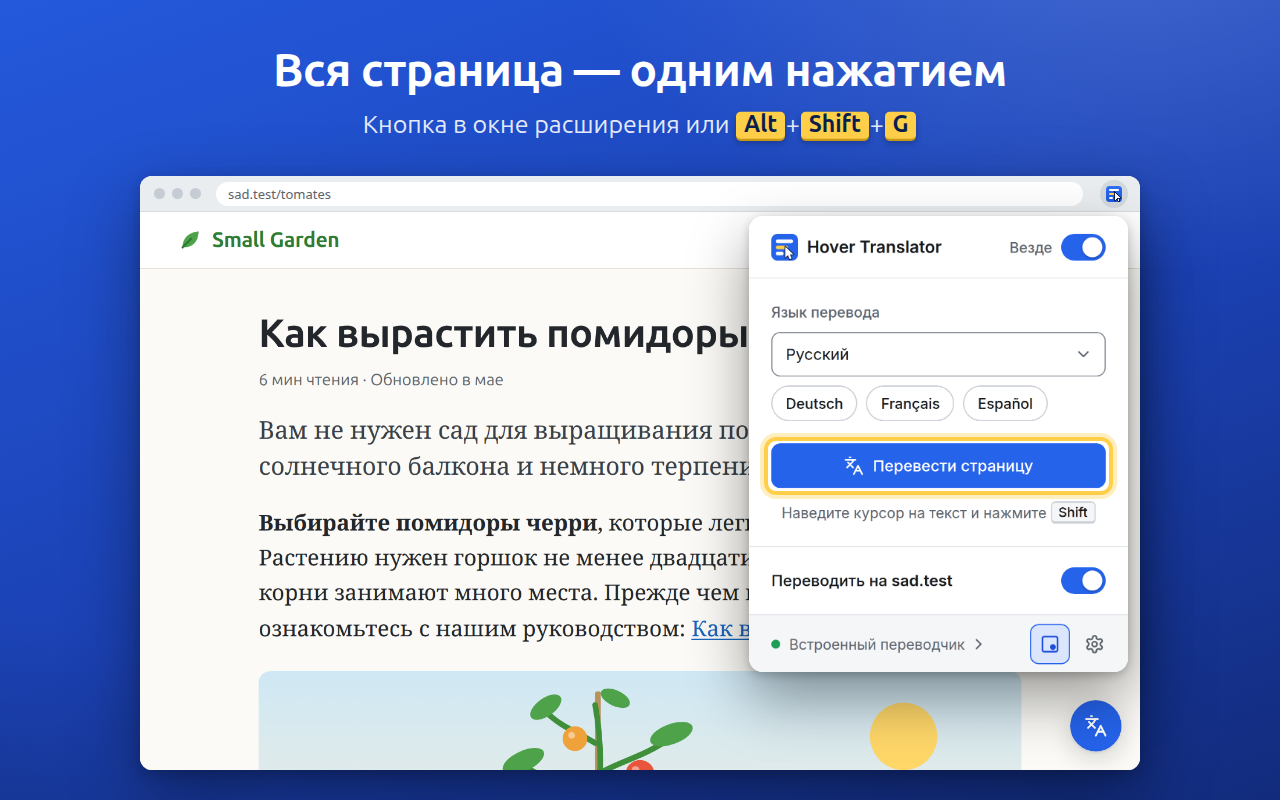
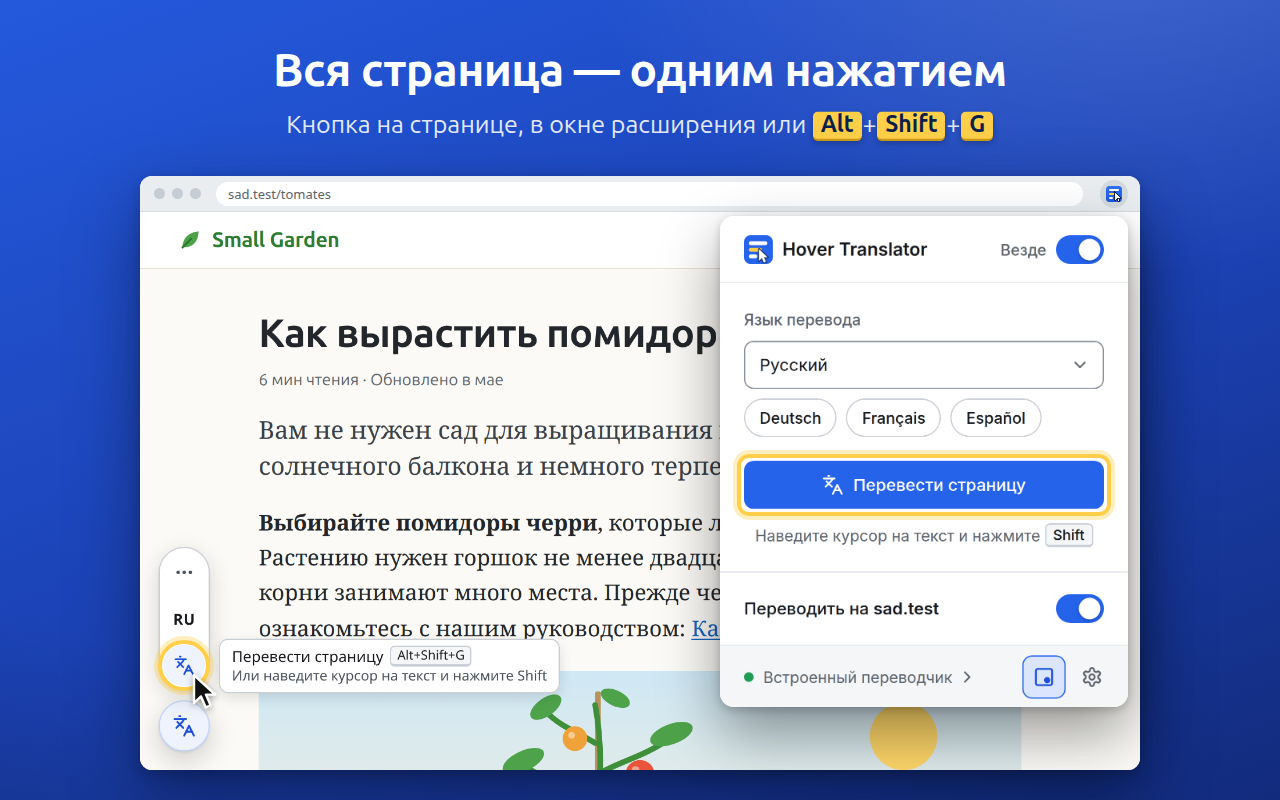
Картинки магазина: на кадре 4 — открытая капсула у кружка с «Перевести страницу»
Кружок слева внизу, капсула и подсказка главной кнопки с Alt+Shift+G — снимок интерфейса на прозрачном фоне
поверх переведённой страницы; рамка и курсор — на главной кнопке, в подписи названа и кнопка на странице.
capture.js в конце удаляет свою копию расширения из профиля, чтобы сочетание не оставалось за прежней установкой.

diff --git a/assets/store/capture.js b/assets/store/capture.js
@@ -14,8 +14,11 @@
 //   s1-before.png, s1-after.png — абзацы до и после перевода клавишей (600×540, ×2);
 //   s2-card.png                 — перевод карточкой рядом с абзацем (860×440, ×2);
 //   s3-settings.png             — страница настроек, раздел «На странице»: способ перевода и показа (×3);
-//   s4-popup.png, s4-page.png   — окно расширения с кнопкой «Перевести страницу» (×3) и переведённая
-//                                 страница с плавающей кнопкой (860×480, ×2);
+//   s4-popup.png                — окно расширения с кнопкой «Перевести страницу» (×3);
+//   s4-page.png                 — переведённая страница без плавающей кнопки (860×480, ×2);
+//   s4-capsule.png              — только наш интерфейс на прозрачном фоне, тот же вид (860×480, ×2): кружок
+//                                 слева внизу, открытая наведением капсула и подсказка главной кнопки
+//                                 «Перевести страницу» с сочетанием клавиш (на картинке — поверх s4-page.png);
 //   s5-translator.png           — страница настроек, раздел «Переводчик»: выбран DeepL, шаг согласия (×3).
 //
 // Окно расширения: Extensions.triggerAction открывает настоящее окно по значку — так расширение получает
@@ -24,6 +27,8 @@
 // подменяется chrome.tabs.query (до скриптов окна), чтобы «активной» была вкладка статьи — её адрес после
 // triggerAction виден. Высота — как у настоящего окна.
 // Настройки, чтение вкладок и команды странице — из service worker расширения.
+// Копия расширения в конце удаляется из профиля (Extensions.uninstall): в постоянном профиле (--profile) иначе
+// копятся прежние установки, и сочетание клавиш «Перевести страницу» остаётся за одной из них — у новой его нет.
 const { spawn } = require("child_process");
 const fs = require("fs");
 const os = require("os");
@@ -181,6 +186,21 @@ async function uiClose(tab) {
   }
   return ids.length;
 }
+// Узлы нашего интерфейса, для которых test(атрибуты) — правда; у узла — его поддерево (children из DOM.getDocument).
+const attrsOf = (n) => { const o = {}, a = n.attributes || []; for (let i = 0; i < a.length; i += 2) o[a[i]] = a[i + 1]; return o; };
+const hasClass = (c) => (a) => (" " + (a.class || "") + " ").includes(" " + c + " ");
+const textOf = (n) => (n.nodeType === 3 ? n.nodeValue : (n.children || []).map(textOf).join(" ")).replace(/\s+/g, " ").trim();
+async function uiFind(tab, test) {
+  const out = [];
+  await walkUi(tab, (n) => { if (n.nodeType === 1 && test(attrsOf(n))) out.push(n); });
+  return out;
+}
+// Рамка узла в CSS-пикселях; null — узла нет или он скрыт.
+async function boxOf(tab, n) {
+  if (!n) return null;
+  try { const q = (await tab.cmd("DOM.getBoxModel", { nodeId: n.nodeId })).model.border; return { x: q[0], y: q[1], w: q[4] - q[0], h: q[5] - q[1] }; }
+  catch { return null; }
+}
 
 // Раздел страницы настроек (выражение для страницы): по id, иначе по заголовку, иначе по порядку.
 const findSection = (key) => `(() => {
@@ -219,8 +239,9 @@ async function run(lang) {
   console.log(`== ${lang}: профиль ${profile}`);
   const b = await launch(lang, profile);
   const layout = {};
+  let id = "";
   try {
-    const { id } = await b.cmd("Extensions.loadUnpacked", { path: extDir });
+    ({ id } = await b.cmd("Extensions.loadUnpacked", { path: extDir }));
     const EXT = `chrome-extension://${id}/`;
 
     // Service worker расширения: через него — настройки, вкладки и сообщения странице.
@@ -342,9 +363,11 @@ async function run(lang) {
     await web.key("rawKeyDown", "Escape", "Escape", 0, 27); await web.key("keyUp", "Escape", "Escape", 0, 27); await sleep(300);
     await store({ displayMode: "replace" }); await sleep(300);
 
-    // ---- 4. Окно расширения и переведённая страница с плавающей кнопкой ----
-    // Сначала окно (страница только что загружена — на месте действия «Перевести страницу»), потом перевод.
-    await store({ hudShown: true, hudPos: null }); await sleep(300);   // кружок — на своём месте (справа внизу в 16 px); страница переведена — залит акцентом
+    // ---- 4. Окно расширения, капсула у кружка и переведённая страница ----
+    // Окно и капсула — на только что загруженной странице: главная кнопка (как и окно) говорит «Перевести
+    // страницу» только до перевода. Потом перевод и снимок страницы без кружка — на картинке капсула ложится поверх.
+    // Кружок — слева внизу, в 16 px от краёв (hudPos: левый край, верх кружка 44 — в 16 от низа окна 480).
+    await store({ hudShown: true, hudPos: { side: "left", top: 480 - 16 - 44 } }); await sleep(300);
     await view(860, 480, 2);
     await web.cmd("Page.reload"); await sleep(1500); await scrollTo(0); await park();
     const popupH = await grant();
@@ -368,6 +391,45 @@ async function run(lang) {
     if (!btn) warn("нет кнопки «Перевести страницу» (" + SEL.popupPrimary + ") — рамки на картинке не будет");
     await shot(pt, path.join(OUT, "s4-popup.png"));
     await b.cmd("Target.closeTarget", { targetId: pt.targetId });
+    // Капсула: настоящее наведение — на кружок (появляются кнопки), затем на главную кнопку (её подсказка;
+    // сочетание клавиш в ней — из chrome.commands, приходит чуть позже).
+    await web.cmd("Page.bringToFront"); await park();
+    const fr = await until(async () => boxOf(web, (await uiFind(web, hasClass("fab")))[0]), 4000);
+    if (!fr) throw new Error("нет плавающей кнопки");
+    await web.mouse("mouseMoved", fr.x + fr.w / 2, fr.y + fr.h / 2); await sleep(60);
+    await web.mouse("mouseMoved", fr.x + fr.w / 2 + 1, fr.y + fr.h / 2);
+    const mainBox = async () => boxOf(web, (await uiFind(web, (a) => a["data-k"] === "main"))[0]);
+    if (!(await until(mainBox, 4000))) throw new Error("наведение на кружок не показало кнопки");
+    await sleep(300);                                    // капсула появляется за 120 мс (сдвиг и прозрачность)
+    const mb = await mainBox();
+    await web.mouse("mouseMoved", mb.x + mb.w / 2, mb.y + mb.h / 2 + 4); await sleep(60);
+    await web.mouse("mouseMoved", mb.x + mb.w / 2, mb.y + mb.h / 2);
+    const tipNow = async () => {
+      const [t] = await uiFind(web, hasClass("fk-tip"));
+      if (!(await boxOf(web, t))) return null;
+      const [k] = await uiFind(web, hasClass("fk-kbd"));
+      return { text: textOf(t), kbd: k ? textOf(k) : "" };
+    };
+    if (!(await until(tipNow, 4000))) throw new Error("у главной кнопки нет подсказки");
+    const tip = (await until(async () => { const t = await tipNow(); return t && t.kbd ? t : null; }, 4000)) || await tipNow();
+    console.log(`   подсказка: «${tip.text}»`);
+    checkState("подсказка у капсулы", tip.text);
+    if (!tip.kbd) warn("в подсказке нет сочетания клавиш — оно у другой копии расширения в профиле (chrome://extensions/shortcuts)");
+    await sleep(300);
+    const main = await mainBox();
+    // Только наш интерфейс на прозрачном фоне: страница скрыта стилем в <head> (атрибуты <html> и <body> не трогаем:
+    // по их смене кружок перекрашивается под фон сайта), фон окна — прозрачный.
+    await web.ev(`(() => { const s = document.createElement("style"); s.id = "ht-capture-ui-only";
+      s.textContent = "html, body { background: transparent !important; } body > :not([data-ht-ui]) { visibility: hidden !important; }";
+      document.head.appendChild(s); return true; })()`);
+    await web.cmd("Emulation.setDefaultBackgroundColorOverride", { color: { r: 0, g: 0, b: 0, a: 0 } });
+    await sleep(800);                                    // перекраска по фону сайта (если бы случилась) — с повтором через 600 мс
+    if ((await uiFind(web, hasClass("dk"))).length) warn("капсула без страницы перекрасилась в тёмную тему");
+    await shot(web, path.join(OUT, "s4-capsule.png"));
+    await web.ev(`(document.getElementById("ht-capture-ui-only").remove(), true)`);
+    await web.cmd("Emulation.setDefaultBackgroundColorOverride", {});
+    await park(); await sleep(200);
+    await store({ hudShown: false }); await sleep(300);   // страница — без кружка: капсула со своим кружком ляжет поверх
     // перевод страницы — той же командой, что шлёт кнопка окна
     await web.cmd("Page.bringToFront"); await park();
     await send({ type: "translatePage", via: "popup" });
@@ -381,8 +443,8 @@ async function run(lang) {
     await uiClose(web);   // уведомление «Страница переведена» на картинке закрыло бы окно расширения
     await park(); await sleep(400);
     await shot(web, path.join(OUT, "s4-page.png"));
-    layout.s4 = { view: [860, 480], popup: { w: 340, h: ph, btn } };
-    await restore(); await store({ hudShown: false });
+    layout.s4 = { view: [860, 480], popup: { w: 340, h: ph, btn }, main };
+    await restore(); await store({ hudShown: false, hudPos: null });
 
     // ---- 3 и 5. Страница настроек ----
     // Ширина 620 (кадр 5): меню разделов — полосой сверху, колонка разделов ~570 — крупнее на картинке; кадр 3 — 660.
@@ -430,6 +492,7 @@ async function run(lang) {
 
     fs.writeFileSync(path.join(OUT, "layout.js"), `// Записано capture.js: координаты (CSS-пиксели снимка) для курсора и рамок на картинках.\nwindow.LAYOUT = ${JSON.stringify(layout, null, 1)};\n`);
   } finally {
+    if (id) await b.cmd("Extensions.uninstall", { id }).catch((e) => console.log("   копия расширения не удалилась из профиля: " + e.message));
     await b.close();
     fs.rmSync(tmp, { recursive: true, force: true });   // копия расширения (и новый профиль, если не задан свой)
   }

diff --git a/assets/store/screens.html b/assets/store/screens.html
@@ -6,7 +6,8 @@
   <!-- Скриншот магазина 1280×800: screens.html?n=1..5&lang=en|ru. Подписи — texts.js, снимки
        настоящего расширения — shots/<lang>/ (их делает capture.js), значок — из расширения.
        1 — до и после (абзац клавишей); 2 — карточка; 3 — страница настроек: способ перевода и показа;
-       4 — окно расширения у значка и переведённая страница с плавающей кнопкой; 5 — раздел «Переводчик». -->
+       4 — переведённая страница: слева внизу плавающая кнопка с открытой капсулой и подсказкой главной кнопки,
+       справа сверху окно расширения у значка; 5 — раздел «Переводчик». -->
   <link rel="stylesheet" href="store.css" />
   <script src="texts.js"></script>
 </head>
@@ -85,19 +86,29 @@ const S = {
     add(`<div class="side" style="width:${sideW}px"><h1>${keys(T.s3.h)}</h1><p>${keys(T.s3.sub)}</p></div>`);
     await sidePanel("s3-settings.png", 70 + sideW, LAYOUT.s3.bg);
   },
-  // 4. Перевести страницу: окно расширения выходит из значка на панели, рамка — вокруг «Перевести страницу»;
-  // за окном — переведённая страница с плавающей кнопкой (кружок, залит акцентом) справа внизу
+  // 4. Перевести страницу: за окном расширения (выходит из значка на панели, рамка — вокруг «Перевести страницу»)
+  // переведённая страница; слева внизу — кружок с открытой наведением капсулой, курсор и рамка — на главной кнопке,
+  // справа от капсулы — её подсказка. Капсула с подсказкой — отдельный снимок на прозрачном фоне поверх страницы,
+  // в том же масштабе (снята на непереведённой странице: «Перевести страницу» главная кнопка говорит только до перевода).
   async 4() {
     const cap = caption(T.s4);
-    const [vw, vh] = LAYOUT.s4.view, P = LAYOUT.s4.popup;
+    const [vw, vh] = LAYOUT.s4.view, P = LAYOUT.s4.popup, M = LAYOUT.s4.main;
     const b = fitWin(cap, { img: "s4-page.png", vw, vh, maxW: 1120, path: "/tomates", icon: "on" });
-    // окно не закрывает кружок (44 px, отступ 16 от низа): низ окна — выше него на 24, чтобы тень окна не гасила акцент
-    const top = b.y + 40, limit = b.py + (vh - 16 - 44 - 24) * b.s;
-    const ps = Math.min(1.2, (limit - top) / P.h);
+    document.querySelector(".win").appendChild(el(`<img src="${SH}s4-capsule.png" width="${b.w}" height="${b.h - 36}" alt="" style="position:absolute;left:0;top:36px">`));
+    // окно расширения — не ниже окна браузера (поле 12, как справа)
+    const top = b.y + 40, ps = Math.min(1.2, (b.y + b.h - 12 - top) / P.h);
     const pw = Math.round(P.w * ps), ph = Math.round(P.h * ps), px = b.x + b.w - pw - 12;
     add(`<div class="panel" style="left:${px}px;top:${top}px;width:${pw}px;height:${ph}px"><img src="${SH}s4-popup.png" width="${pw}" height="${ph}" alt=""></div>`);
+    const ring = (x, y, w, h, d, extra = "") => add(`<div class="ring" style="left:${x - d}px;top:${y - d}px;width:${w + 2 * d}px;height:${h + 2 * d}px;${extra}"></div>`);
     const r = P.btn;
-    if (r) add(`<div class="ring" style="left:${px + r.x * ps - 7}px;top:${top + r.y * ps - 7}px;width:${r.w * ps + 14}px;height:${r.h * ps + 14}px"></div>`);
+    if (r) ring(px + r.x * ps, top + r.y * ps, r.w * ps, r.h * ps, 7);
+    if (M) {
+      // главная кнопка капсулы — круглая, рамка тоже и плотнее (подсказка — в 12 px от кнопки); курсор — у правого
+      // нижнего края кнопки, иконка видна
+      const x = b.px + M.x * b.s, y = b.py + M.y * b.s, w = M.w * b.s, h = M.h * b.s;
+      ring(x, y, w, h, 5, "border-radius:50%");
+      cursorAt(x + w * 0.74, y + h * 0.72, "z-index:6");
+    }
   },
   // 5. Бесплатно и приватно: раздел «Переводчик» — встроенный готов, у DeepL сначала согласие
   async 5() {

diff --git a/assets/store/texts.js b/assets/store/texts.js
@@ -5,7 +5,7 @@ window.TEXTS = {
     s1: { h: "Point at text, press <n><k>Shift</k>&nbsp;—</n> it’s translated right on the page", sub: "Links, bold text and layout stay as they were", before: "Before", after: "After" },
     s2: { h: "Or read the translation in a card next to the text", sub: "The original stays as it is" },
     s3: { h: "Choose how to translate", sub: "<k>Shift</k>, <k>Alt</k>, <n><k>Ctrl</k>&nbsp;—</n> <n>or simply hover</n>" },
-    s4: { h: "Translate the whole page in one click", sub: "A button in the extension window or <k>Alt</k>+<k>Shift</k>+<k>G</k>" },
+    s4: { h: "Translate the whole page in one click", sub: "A button on the page, in the extension window, or <k>Alt</k>+<k>Shift</k>+<k>G</k>" },
     s5: {
       h: "Free and private",
       points: [
@@ -19,7 +19,7 @@ window.TEXTS = {
     s1: { h: "Наведите курсор на текст и нажмите <n><k>Shift</k>&nbsp;—</n> перевод появится прямо на странице", sub: "Ссылки и оформление остаются как были", before: "До", after: "После" },
     s2: { h: "Или читайте перевод в карточке рядом с текстом", sub: "Оригинал при этом не меняется" },
     s3: { h: "Выберите, как переводить", sub: "<k>Shift</k>, <k>Alt</k>, <n><k>Ctrl</k>&nbsp;—</n> или просто наведение курсора" },
-    s4: { h: "Вся страница&nbsp;— одним нажатием", sub: "Кнопка в окне расширения или <k>Alt</k>+<k>Shift</k>+<k>G</k>" },
+    s4: { h: "Вся страница&nbsp;— одним нажатием", sub: "Кнопка на странице, в окне расширения или <k>Alt</k>+<k>Shift</k>+<k>G</k>" },
     s5: {
       h: "Бесплатно и приватно",
       points: [

diff --git a/assets/store/shots/en/layout.js b/assets/store/shots/en/layout.js
@@ -62,6 +62,12 @@ window.LAYOUT = {
     "w": 300,
     "h": 40
    }
+  },
+  "main": {
+   "x": 20,
+   "y": 372,
+   "w": 36,
+   "h": 36
   }
  },
  "s3": {

diff --git a/assets/store/shots/ru/layout.js b/assets/store/shots/ru/layout.js
@@ -62,6 +62,12 @@ window.LAYOUT = {
     "w": 300,
     "h": 40
    }
+  },
+  "main": {
+   "x": 20,
+   "y": 372,
+   "w": 36,
+   "h": 36
   }
  },
  "s3": {
